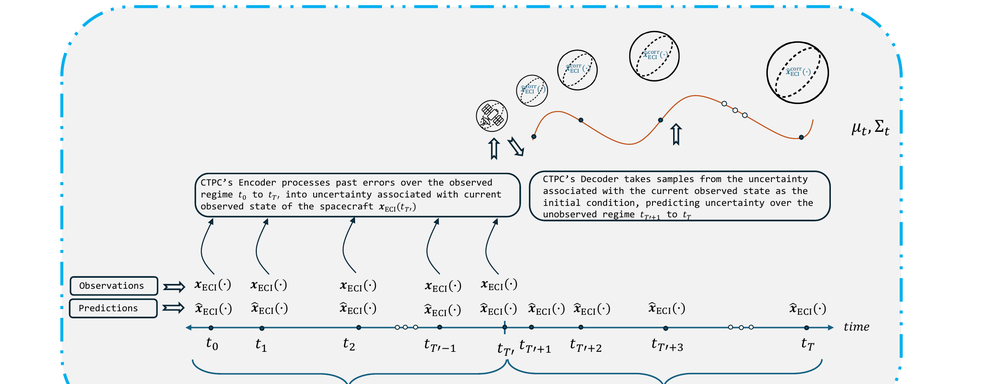
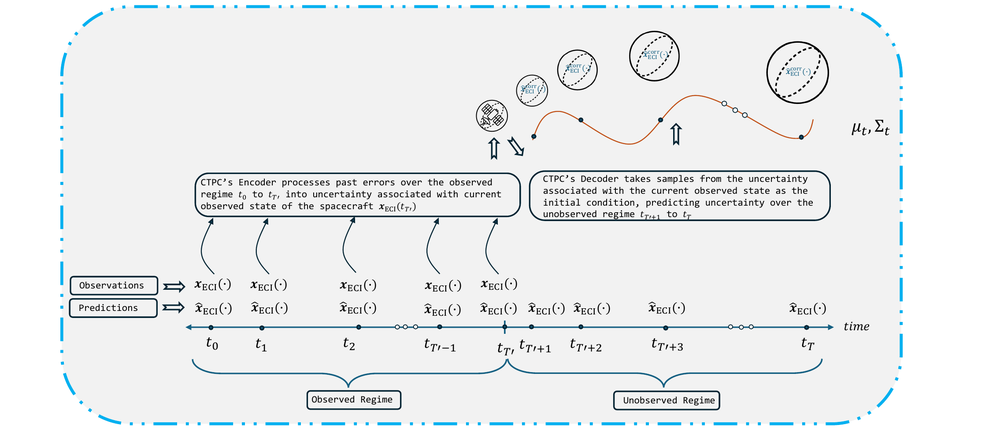
Fix GMAT thumbnail crop to include full figure (regime braces)

diff --git a/index.html b/index.html
@@ -96,7 +96,7 @@
     <!-- ========== GMAT SciTech Paper ========== -->
     <tr>
       <td style="padding:16px;width:20%;vertical-align:middle">
-        <img id="ctpc_gmat_thumb" src="images/ctpc_gmat.png?v=2" width="100%" style="cursor:pointer; border-radius:6px;">
+        <img id="ctpc_gmat_thumb" src="images/ctpc_gmat.png?v=3" width="100%" style="cursor:pointer; border-radius:6px;">
         <div id="ctpc_gmat_modal" class="modal">
           <span class="close">&times;</span>
           <img class="modal-content" id="ctpc_gmat_full">
